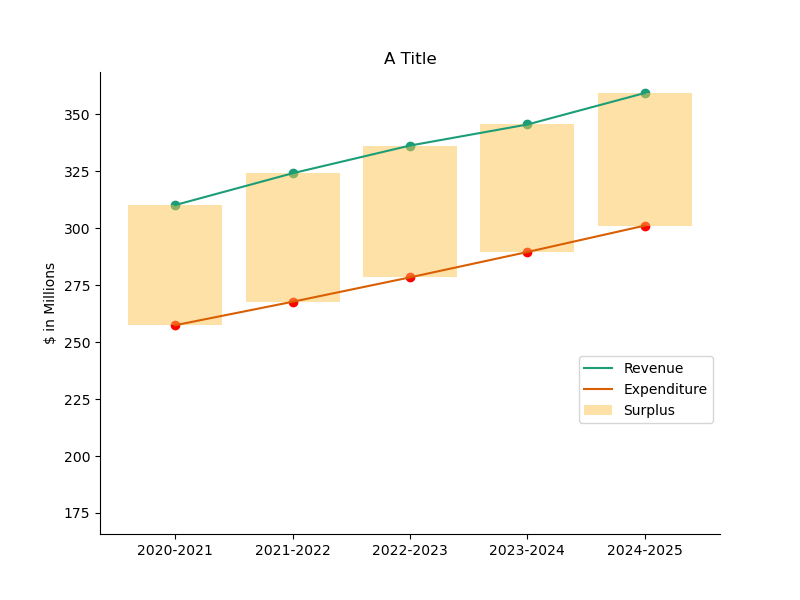
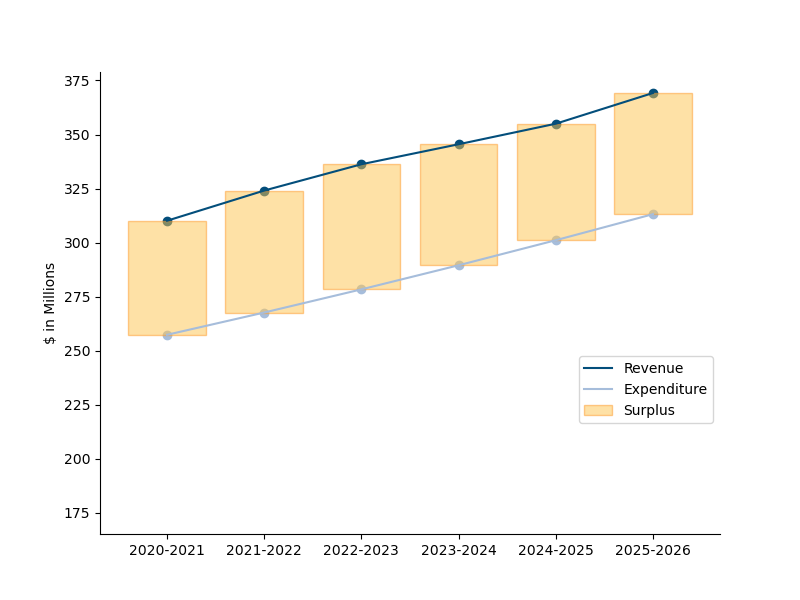
Working
updated data -new year
fiddled with stacked bar and line
made surplus line into a fn (to run on diff revenue and surplus cols)

diff --git a/SB_5yr_plot.py b/SB_5yr_plot.py
@@ -25,7 +25,7 @@ def line_plot(var_list, ext_ln = False):
         if len(var_list)>=4:
                 ax.plot(df['Year'], df[var_list[3]], label = var_list[3])
         if ext_ln:
-                ax.plot(df['Year'], [10,10,10,10,10], alpha = 0)
+                ax.plot(df['Year'], [10]*len(df['Year']), alpha = 0)
         ax.spines['right'].set_visible(False)
         ax.spines['top'].set_visible(False)
         ax.set_ylabel('$ in Millions')
@@ -38,32 +38,36 @@ line_plot(df.columns[-4:])
 
 
 
+# Surpluss Line
+def surplus_line(revenue, surplus):
+        fig, ax = plt.subplots(figsize=(8,6))
+        ax.plot(df['Year'], revenue,
+                label = 'Revenue', color = '#034e7b')
+        ax.scatter(df['Year'], revenue, color = '#034e7b')
+        ax.plot(df['Year'], df['Expenditures (DGF)'],
+                label = 'Expenditure', color = '#a6bddb')
+        ax.scatter(df['Year'], df['Expenditures (DGF)'], color = '#a6bddb')
+        ax.bar(df['Year'], surplus, 
+                bottom = df['Expenditures (DGF)'],
+                alpha = 0.5, color = '#fec44f',
+                edgecolor = '#fe9929',
+                label = 'Surplus')
 
-fig, ax = plt.subplots(figsize=(8,6))
-ax.plot(df['Year'], df['Total Disc Rev'],
-        label = 'Revenue')
-ax.scatter(df['Year'], df['Total Disc Rev'])
-ax.plot(df['Year'], df['Expenditures (DGF)'],
-        label = 'Expenditure')
-ax.scatter(df['Year'], df['Expenditures (DGF)'], color = 'red')
-ax.bar(df['Year'], df['Total Disc Rev']-df['Expenditures (DGF)'], 
-        bottom = df['Expenditures (DGF)'],
-        alpha = 0.5, color = '#fec44f',
-        label = 'Surplus')
+        #for v, i  in enumerate(df['Expenditures (DGF)']):
+        #        ax.annotate(round(v,2))#, xy = (df['Expenditures (DGF)'][i]))
 
-#for v, i  in enumerate(df['Expenditures (DGF)']):
-#        ax.annotate(round(v,2))#, xy = (df['Expenditures (DGF)'][i]))
+        plt.legend(bbox_to_anchor = (1.0, 0.4))
 
-plt.legend(bbox_to_anchor = (1.0, 0.4))
+        ax.plot(df['Year'], [185]*len(df['Year']), alpha = 0)
+        ax.spines['right'].set_visible(False)
+        ax.spines['top'].set_visible(False)
+        ax.set_ylabel('$ in Millions')
+        #plt.title('A Title')
+        plt.show()
+        #plt.savefig('Revenue-Expenditure')
 
-ax.plot(df['Year'], [175,175,175,175,175], alpha = 0)
-ax.spines['right'].set_visible(False)
-ax.spines['top'].set_visible(False)
-ax.set_ylabel('$ in Millions')
-plt.title('A Title')
-#plt.show()
-plt.savefig('Revenue-Expenditure')
-
+surplus_line(df['Total Disc Rev'], df['Total Disc Rev']-df['Expenditures (DGF)'])
+surplus_line(df['Total w/o Other'], df['Surplus w/o Other Rev'])
 
 fig, ax = plt.subplots(figsize=(8,6))
 plt.stackplot(df['Year'], df['Property Tax'], df['Sales Tax'], df['TOT'])
@@ -116,6 +120,8 @@ nested_pie(0)
 plt.pie([df['Total Disc Rev'][0]])
 plt.show()
 
+
+#Revenue by source stacked bar
 cmap([120,30,70,100])
 fig, ax = plt.subplots(figsize=(8,6))
 ax.bar(df['Year'], df['Other'], 
@@ -136,6 +142,7 @@ ax.bar(df['Year'], df['Sales Tax'],
 
 ax.plot(df['Year'], df['Expenditures (DGF)'], color = '#fec44f', label = 'Expenditures')
 ax.scatter(df['Year'], df['Expenditures (DGF)'], s = 200, color = '#fec44f')
+#ax.plot(df['Year'], df['Total Disc Rev'], color  = '#02818a', label = 'Total Revenue')
 ax.spines['right'].set_visible(False)
 ax.spines['top'].set_visible(False)
 #reverse ledgand order #https://stackoverflow.com/questions/34576059/reverse-the-order-of-legend
@@ -143,13 +150,13 @@ handles, labels = ax.get_legend_handles_labels()
 plt.legend(reversed(handles), reversed(labels), bbox_to_anchor = (1.0, 0.6))
 plt.subplots_adjust(right=0.75)
 ax.set_ylabel('$ in Millions')
-plt.title('A Title')
+#plt.title('A Title')
 
 #maybe label hight?
 # #https://stackoverflow.com/questions/30228069/how-to-display-the-value-of-the-bar-on-each-bar-with-pyplot-barh 
 #plt.savefig('staked_bar_revenue')
-#plt.savefig('staked_bar_blue')
-plt.show()
+plt.savefig('staked_bar_blue')
+#plt.show()
 
 
 
